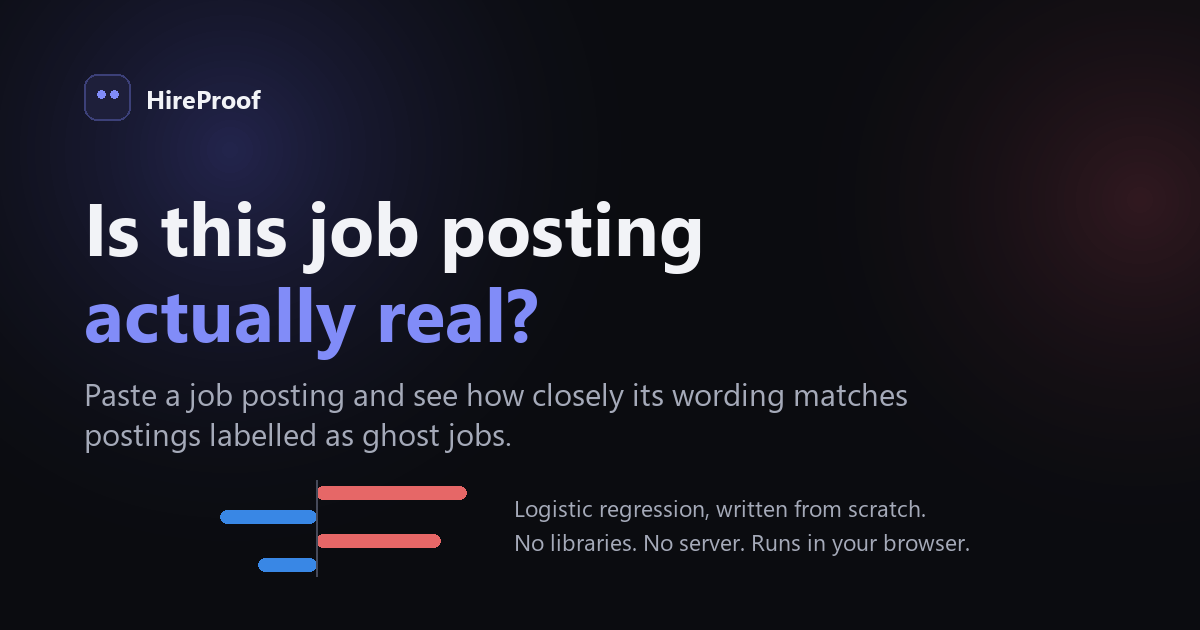
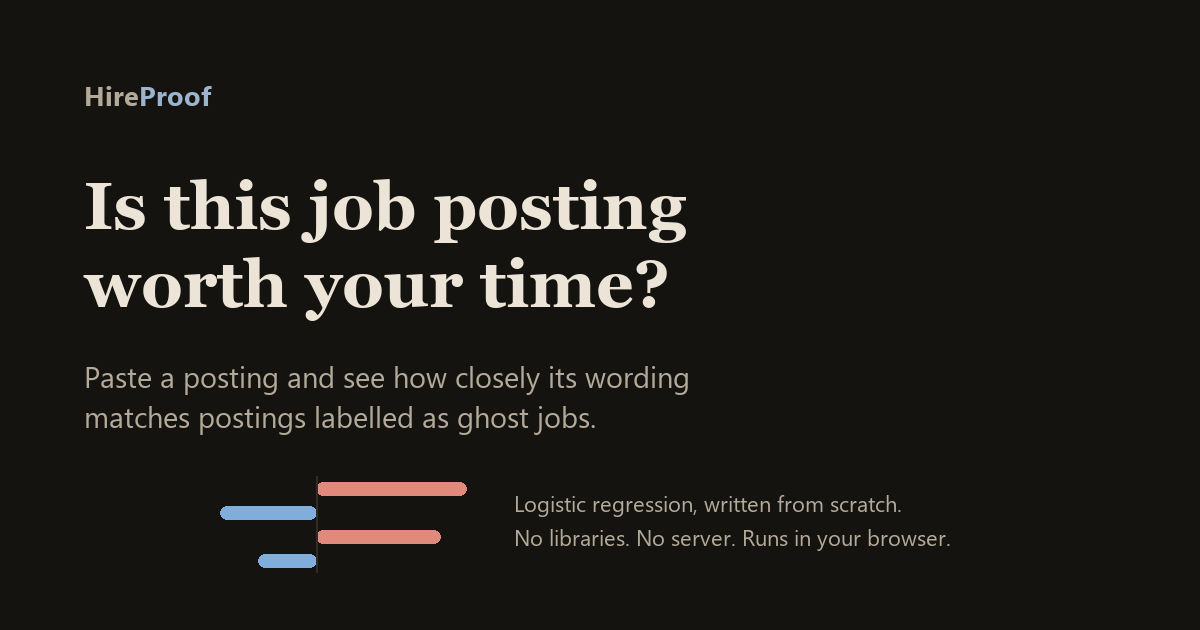
Refresh the share image and screenshot; document the typographic pass
og.png was still the September design - indigo on near-black, two radial
glows, and the split-colour "actually real?" headline the redesign
dropped. Nothing on the page links to it, so the only place the mismatch
showed was in other people's chat windows, which is exactly why it went
unnoticed. Regenerated from the current tokens: warm charcoal, cream ink,
slate accent, one-colour headline, no glows.

The generator now uses Georgia for the headline rather than the site's
Fraunces, because Fraunces ships as woff2 and Pillow cannot read that
container. Georgia is the closest warm serif present on a stock Windows
machine, and it avoids committing a second copy of a font in a second
format purely for a build script. Its docstring is raw now, so the
Windows paths in it stop raising a SyntaxWarning.

The README screenshot was from the previous pass and showed the light
theme in Instrument Sans. Retaken at 1200px in the current design, with
the Edit/Highlights toggle and a scored result visible.

ARCHITECTURE gains 3.10 covering the type scale, the self-hosted fonts
and why not a CDN, the declared dark default, why the highlighting is a
second view rather than an overlay on the textarea, and the three places
where the page had been stating something the data contradicted.

diff --git a/tools/make_og_image.py b/tools/make_og_image.py
@@ -1,10 +1,10 @@
-"""
+r"""
 Generates docs/og.png, the preview image shown when the link is shared.
 
 Run it only when the wording or look changes:
 
-    .venv\\Scripts\\python.exe -m pip install Pillow
-    .venv\\Scripts\\python.exe tools/make_og_image.py
+    .venv\Scripts\python.exe -m pip install Pillow
+    .venv\Scripts\python.exe tools/make_og_image.py
 
 WHY A GENERATED PNG rather than an SVG or a screenshot:
 
@@ -14,6 +14,11 @@ WHY A GENERATED PNG rather than an SVG or a screenshot:
     remembers to retake it.
   * Drawing it here keeps the colours in one place with the site, and
     regenerating is one command.
+
+This file went stale anyway, which is worth recording rather than quietly
+fixing: it kept the old indigo-on-near-black look for weeks after the site
+moved to warm charcoal, and because nothing on the page links to it, the
+only place the mismatch showed was in other people's chat windows.
 
 Pillow is a DEVELOPMENT dependency only. It is not in requirements.txt
 and the site never loads it: the output is a committed PNG file.
@@ -30,26 +35,39 @@ OUT = ROOT / "docs" / "og.png"
 # cropped unpredictably depending on the platform.
 W, H = 1200, 630
 
-# The site's dark palette, so the card and the page match.
-BG = (11, 12, 16)
-INK = (242, 243, 247)
-INK_SOFT = (165, 170, 185)
-ACCENT = (129, 140, 248)
-RAISE = (230, 103, 103)
-LOWER = (57, 135, 229)
+# The site's dark palette, taken from the tokens in docs/style.css so the
+# card and the page agree. Warm charcoal and warm cream, never pure black
+# or pure white.
+BG = (0x15, 0x13, 0x0F)         # --paper
+PANEL = (0x1C, 0x19, 0x15)      # --surface
+INK = (0xEC, 0xE4, 0xD6)        # --ink
+INK_SOFT = (0xB3, 0xAA, 0x9A)   # --ink-soft
+RULE = (0x30, 0x2B, 0x23)       # --rule
+ACCENT = (0x9D, 0xB4, 0xCE)     # --accent
+GHOST = (0xE0, 0x8A, 0x7C)      # --toward-ghost
+REAL = (0x7F, 0xAE, 0xDC)       # --toward-real
 
 
-def load_font(size, bold=False):
+def load_font(size, serif=False, bold=False):
     """A real system font, falling back to Pillow's bitmap default.
 
-    The fallback is ugly but the script still produces a valid image on a
-    machine without these fonts, rather than crashing at the last step.
+    The site's headline face is Fraunces, but it ships as woff2 and
+    Pillow cannot read that container. Georgia is the closest thing
+    present on a stock Windows machine - a warm, bookish serif - so the
+    card reads in the same voice without adding a second copy of the font
+    to the repo in a different format.
+
+    The fallback keeps the script producing a valid image on a machine
+    without these fonts, rather than crashing at the last step.
     """
-    candidates = (
-        ["segoeuib.ttf", "seguisb.ttf", "arialbd.ttf"]
-        if bold
-        else ["segoeui.ttf", "arial.ttf"]
-    )
+    if serif:
+        candidates = ["georgiab.ttf", "georgia.ttf"] if bold else ["georgia.ttf"]
+    else:
+        candidates = (
+            ["segoeuib.ttf", "seguisb.ttf", "arialbd.ttf"]
+            if bold
+            else ["segoeui.ttf", "arial.ttf"]
+        )
     for name in candidates:
         try:
             return ImageFont.truetype(name, size)
@@ -58,78 +76,59 @@ def load_font(size, bold=False):
     return ImageFont.load_default()
 
 
-def radial_glow(size, colour, strength):
-    """One soft colour blob, matching the page's background.
-
-    Built by drawing concentric circles of increasing alpha rather than
-    with a blur filter: a real Gaussian blur over a 1200x630 canvas is
-    slow, and this only needs to look soft, not be mathematically right.
-    """
-    layer = Image.new("RGBA", (size, size), (0, 0, 0, 0))
-    draw = ImageDraw.Draw(layer)
-    steps = 60
-    for i in range(steps, 0, -1):
-        radius = size / 2 * (i / steps)
-        alpha = int(strength * (1 - i / steps) ** 2)
-        box = (size / 2 - radius, size / 2 - radius,
-               size / 2 + radius, size / 2 + radius)
-        draw.ellipse(box, fill=(*colour, alpha))
-    return layer
-
-
 def main():
     image = Image.new("RGB", (W, H), BG)
-
-    # Two glows in the corners, echoing the page.
-    image.paste(radial_glow(900, (99, 102, 241), 70),
-                (-220, -300), radial_glow(900, (99, 102, 241), 70))
-    image.paste(radial_glow(760, (190, 70, 90), 55),
-                (760, -180), radial_glow(760, (190, 70, 90), 55))
-
     draw = ImageDraw.Draw(image)
 
-    title = load_font(74, bold=True)
-    subtitle = load_font(31)
-    label = load_font(25, bold=True)
-    small = load_font(23)
+    # NO GLOWS. The previous version pasted two radial blobs into the
+    # corners to match a design that no longer exists. Flat warm charcoal
+    # is the design now, and a flat background also survives the heavy
+    # recompression most platforms apply to preview images.
+
+    headline = load_font(66, serif=True, bold=True)
+    wordmark = load_font(27, bold=True)
+    subtitle = load_font(29)
+    small = load_font(22)
 
     x = 84
 
-    # Wordmark
-    draw.rounded_rectangle((x, 74, x + 46, 120), radius=13,
-                           fill=(30, 31, 58), outline=(60, 64, 120), width=2)
-    draw.ellipse((x + 13, 90, x + 21, 98), fill=ACCENT)
-    draw.ellipse((x + 26, 90, x + 34, 98), fill=ACCENT)
-    draw.text((x + 62, 82), "HireProof", font=label, fill=INK)
+    # Wordmark, matching the page: "Hire" steps back, "Proof" carries the
+    # accent. Two channels, weight and hue, so it reads in greyscale too.
+    draw.text((x, 76), "Hire", font=wordmark, fill=INK_SOFT)
+    hire_w = draw.textlength("Hire", font=wordmark)
+    draw.text((x + hire_w, 76), "Proof", font=wordmark, fill=ACCENT)
 
-    # Headline, in two lines so the accent colour lands on the question.
-    draw.text((x, 176), "Is this job posting", font=title, fill=INK)
-    draw.text((x, 262), "actually real?", font=title, fill=ACCENT)
+    # The headline, one colour across both lines. The old card put the
+    # second line in the accent, which is the split-colour headline the
+    # redesign deliberately dropped.
+    draw.text((x, 168), "Is this job posting", font=headline, fill=INK)
+    draw.text((x, 246), "worth your time?", font=headline, fill=INK)
 
-    draw.text((x, 372),
-              "Paste a job posting and see how closely its wording matches",
+    draw.text((x, 356),
+              "Paste a posting and see how closely its wording",
               font=subtitle, fill=INK_SOFT)
-    draw.text((x, 412),
-              "postings labelled as ghost jobs.",
+    draw.text((x, 396),
+              "matches postings labelled as ghost jobs.",
               font=subtitle, fill=INK_SOFT)
 
-    # A miniature of the diverging chart: the thing that makes the project
-    # recognisable at a glance.
-    bar_y = 486
+    # A miniature of the diverging breakdown: the thing that makes the
+    # project recognisable at a glance, and the one place colour is used
+    # to mean something rather than to decorate.
+    bar_y = 482
     centre = x + 232
     for width, colour, direction in [
-        (150, RAISE, 1), (96, LOWER, -1), (124, RAISE, 1), (58, LOWER, -1),
+        (150, GHOST, 1), (96, REAL, -1), (124, GHOST, 1), (58, REAL, -1),
     ]:
         left = centre if direction > 0 else centre - width
         draw.rounded_rectangle((left, bar_y, left + width, bar_y + 13),
                                radius=6, fill=colour)
         bar_y += 24
-    draw.line((centre, 480, centre, bar_y - 6), fill=(70, 74, 90), width=2)
+    draw.line((centre, 476, centre, bar_y - 6), fill=RULE, width=2)
 
-    draw.text((x + 430, 492),
+    draw.text((x + 430, 488),
               "Logistic regression, written from scratch.",
               font=small, fill=INK_SOFT)
-    draw.text((x + 430, 526),
+    draw.text((x + 430, 522),
               "No libraries. No server. Runs in your browser.",
               font=small, fill=INK_SOFT)
 

diff --git a/ARCHITECTURE.md b/ARCHITECTURE.md
@@ -392,6 +392,60 @@ in - both of which are showing a number changing. `bump_version.py` lost
 those two files from its target list, which `tests/test_versions.py`
 guards.
 
+### 3.10 The typographic pass, and the three things it corrected
+
+The redesign in 3.9 fixed the structure but left the page in a single
+narrow band of type: `h1` topped out at 36px, `h2` at 21px, and roughly
+forty declarations sat between 11px and 15px. Nothing anchored the eye,
+so every section read with the same weight as every other.
+
+This pass gave the page a scale (headline 44-72px, headings 32-40px, body
+17px/1.65) and three typefaces with one job each: Fraunces for the
+headline, section headings and the score; Instrument Sans for text; IBM
+Plex Mono for every number. The fonts are self-hosted woff2 in
+`docs/fonts/`, not a CDN. The page tells visitors the posting never leaves
+their machine, and a third-party font request would put a request on the
+board that undercuts the claim for no benefit. They had in fact been
+referenced but missing for some time, so the live site was throwing three
+404s and silently rendering in Segoe UI.
+
+**Dark is the default, and it is declared rather than inherited.**
+`color-scheme: dark` on `:root`, and `applyTheme` resolves an unset
+preference to dark instead of reading `prefers-color-scheme`. Following
+the OS would have meant most visitors never saw the palette the page was
+drawn for. All fourteen colour pairs were measured rather than judged by
+eye; the lowest is the faint label at 5.02:1, so every one clears WCAG AA
+for body text.
+
+**The highlighting moved to where it is useful.** It is the feature that
+makes this a tool rather than a number generator, and it had been sitting
+below an eleven-row table where nobody scrolled to it. It is now a view of
+the input panel itself, behind an Edit/Highlights toggle. Both views
+render from the same string, so they cannot drift apart. It is
+deliberately NOT a textarea with marks overlaid: that needs a mirrored
+element kept in sync with the textarea's scroll position and font
+metrics, and it breaks the moment a font loads late or a line wraps
+differently.
+
+Three content faults were fixed at the same time, all of which had the
+same shape - the page stating something the data contradicted:
+
+1. **Two small-sample cautions quoting two thresholds.** `train.py` owns
+   this judgement through `MIN_USABLE`, and `app.js` had invented a
+   second one at 100. The hardcoded one is gone.
+2. **A weight table presented as findings.** On the current sample, seven
+   of the ten signals with a stated direction learned the OPPOSITE of
+   their hypothesis. The card now counts the disagreements out of
+   `model.json` and says so, which means the note corrects itself on
+   every retrain and disappears on its own once the weights settle. Two
+   "where it gets things wrong" bullets that named directions the weights
+   contradict were reworded to describe the failure without asserting a
+   direction.
+3. **The how-it-works demo had no out-of-distribution caution.** It runs
+   the real scorer, so a two-word line sits about ten standard deviations
+   below the training mean - and it showed that arithmetic as if it were
+   a reading. It now gives the same caution the main panel does.
+
 ## 4. The 11 features, and why each was chosen
 
 These are **hypotheses**, drawn from commonly reported reasons ghost
